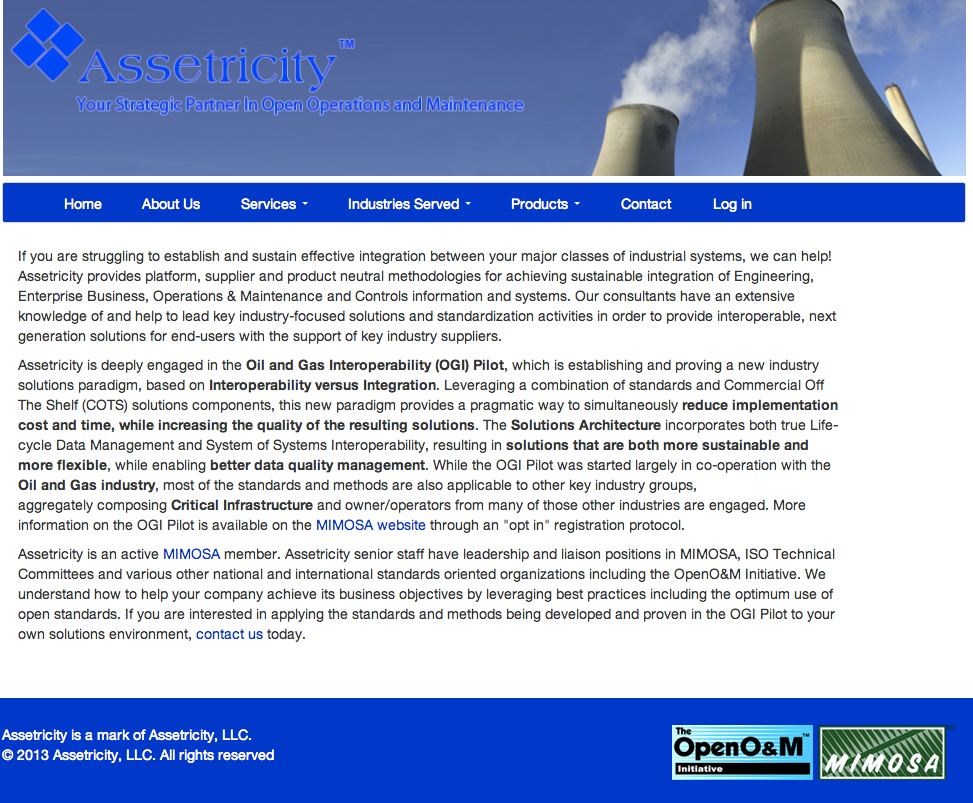
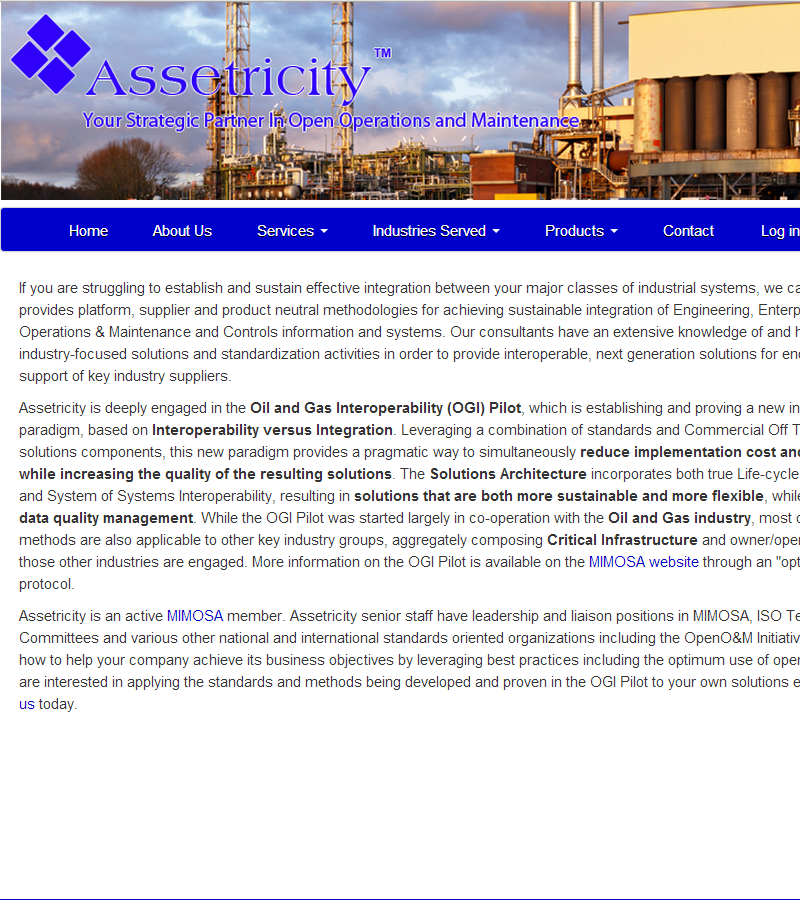
Updated several iamges

diff --git a/app/assets/stylesheets/welcome.css.scss b/app/assets/stylesheets/welcome.css.scss
@@ -91,7 +91,6 @@ body {
   width: 30%;
   height: 300px;
   display: inline-block;
-  border: 1px solid;
   float: left;
 }
 .projects-pane img {
